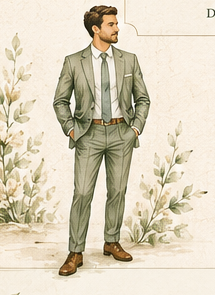
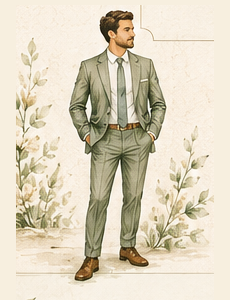
Add files via upload

diff --git a/index.html b/index.html
@@ -25,7 +25,7 @@ section{position:relative;padding:74px 20px;overflow:hidden}.wrap{max-width:1050
 .floral-corner{position:absolute;width:250px;height:330px;opacity:.7;background-size:contain;background-repeat:no-repeat;pointer-events:none}.floral-corner.l{left:-60px;top:10px;background-image:url('floral_left.png')}.floral-corner.r{right:-70px;bottom:-20px;background-image:url('floral_right.png');background-position:right bottom}
 .story-grid{display:grid;grid-template-columns:.85fr 1.2fr;gap:42px;align-items:center}.story-copy{text-align:center;font-family:'Cormorant Garamond';font-size:1.24rem}.story-copy .script{font-size:3.9rem;color:var(--green);display:block;margin-bottom:20px}.polaroids{display:grid;grid-template-columns:1fr 1fr;gap:10px;align-items:center}.polaroid{background:#fff;padding:11px 11px 34px;box-shadow:0 14px 35px rgba(58,58,42,.18);transform:rotate(-3deg)}.polaroid:nth-child(2){transform:rotate(3deg)}.polaroid img{width:100%;height:300px;object-fit:cover;display:block}
 .countdown{margin-top:46px;border:1px solid var(--line);background:rgba(255,250,240,.6);padding:24px}.countdown h3{text-align:center;font-family:Allura;font-size:3.2rem;font-weight:400;color:var(--green);margin:-10px 0 18px}.counter{display:grid;grid-template-columns:repeat(4,1fr)}.counter-item{text-align:center;border-right:1px solid var(--line)}.counter-item:last-child{border:0}.counter-number{font-size:3.15rem;color:var(--green);line-height:1}.counter-label{font-family:'Cormorant Garamond';font-size:.9rem;text-transform:uppercase}
-.dress-grid{display:grid;grid-template-columns:260px 1fr 260px;gap:20px;align-items:end}.dress-person img{width:100%;height:auto;display:block;mix-blend-mode:multiply}.dress-person.image-error:after{content:'Ilustración';display:grid;place-items:center;min-height:280px;border:1px solid var(--line);font-family:'Cormorant Garamond';font-size:1.4rem;color:var(--green);background:rgba(255,250,240,.55)}.dress-copy{text-align:center;padding:15px}.dress-copy h2{font-family:Allura;font-size:4rem;color:var(--green);font-weight:400;margin:0}.dress-copy p{font-family:'Cormorant Garamond';font-size:1.24rem;line-height:1.55;margin:12px 0}.dress-copy strong{font-size:1.4rem;color:var(--green)}
+.dress-grid{display:grid;grid-template-columns:260px 1fr 260px;gap:20px;align-items:end}.dress-person{overflow:hidden}.dress-person img{width:100%;height:auto;display:block;mix-blend-mode:multiply;border:0}.dress-person.image-error:after{content:'Ilustración';display:grid;place-items:center;min-height:280px;border:1px solid var(--line);font-family:'Cormorant Garamond';font-size:1.4rem;color:var(--green);background:rgba(255,250,240,.55)}.dress-copy{text-align:center;padding:15px}.dress-copy h2{font-family:Allura;font-size:4rem;color:var(--green);font-weight:400;margin:0}.dress-copy p{font-family:'Cormorant Garamond';font-size:1.24rem;line-height:1.55;margin:12px 0}.dress-copy strong{font-size:1.4rem;color:var(--green)}
 .rsvp-box{border:1px solid var(--line);background:rgba(255,250,240,.78);padding:34px;box-shadow:0 18px 45px rgba(65,68,51,.08)}form{display:grid;grid-template-columns:1fr 1fr;gap:15px}.field{display:grid;gap:6px}.field.full{grid-column:1/-1}label{font-size:.85rem;color:var(--green)}input,select,textarea{width:100%;padding:13px;border:1px solid #cfc2a7;background:#fffaf1;border-radius:7px;font:inherit;color:var(--ink)}textarea{min-height:96px;resize:vertical}.submit{grid-column:1/-1}.status{text-align:center;grid-column:1/-1;color:var(--green);min-height:22px}
 .info-grid{display:grid;grid-template-columns:repeat(4,1fr);gap:10px}.info-card{border:1px solid var(--line);background:rgba(255,250,240,.72);text-align:center;padding:18px 14px;min-height:300px;display:flex;flex-direction:column}.info-card img{width:100%;height:140px;object-fit:cover;mix-blend-mode:multiply}.info-card h3{font-size:1.35rem;color:var(--green);margin:10px 0 4px}.info-card p{font-family:'Cormorant Garamond';font-size:1.05rem;flex:1}.btn{display:inline-block;padding:10px 16px;border-radius:6px;background:var(--green);color:#fff;text-decoration:none;font-size:.82rem}.gift-note{text-align:center;font-family:'Cormorant Garamond';font-size:1.2rem}.iban{margin:18px auto 0;max-width:620px;padding:16px;border:1px dashed var(--gold);background:#fffaf1;overflow-wrap:anywhere;font-family:Arial}
 footer{text-align:center;background:var(--green);color:white;padding:16px;font-style:italic}.music-control{position:fixed;right:18px;bottom:18px;z-index:1000;border:1px solid rgba(89,111,67,.35);border-radius:999px;background:rgba(255,250,240,.95);color:var(--green);padding:11px 15px;box-shadow:0 8px 26px rgba(58,65,48,.18);font:500 .76rem Montserrat;cursor:pointer}#ytMusic{position:fixed;left:-9999px;width:1px;height:1px}
